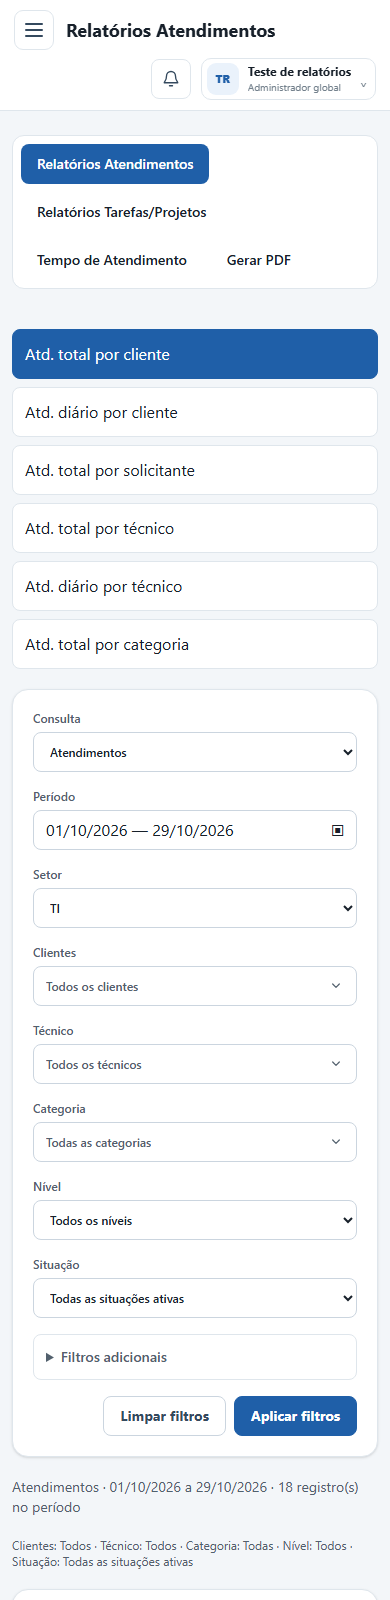
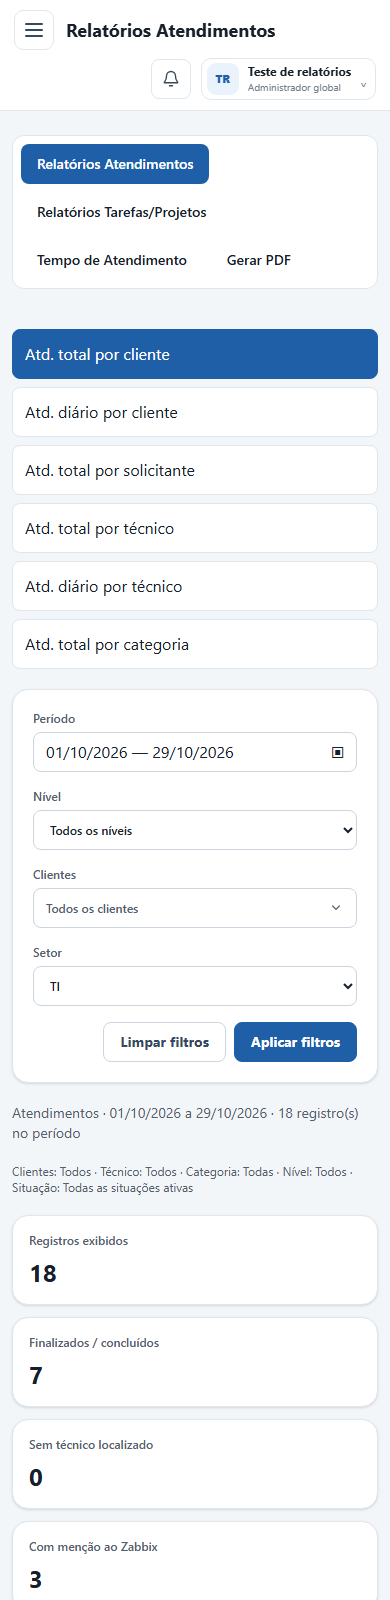
feat(reports): tailor attendance filters to each report

diff --git a/apps/web/src/modules/reports/components/report-center-screen.tsx b/apps/web/src/modules/reports/components/report-center-screen.tsx
@@ -37,6 +37,27 @@ const ATTENDANCE_VIEWS: Array<{ value: ReportGrouping; label: string }> = [
   { value: 'category', label: 'Atd. total por categoria' },
 ];
 
+type FilterField = 'period' | 'level' | 'client' | 'sector' | 'technician' | 'category' | 'status';
+const ATTENDANCE_FILTERS: Partial<Record<ReportGrouping, readonly FilterField[]>> = {
+  client: ['period', 'level', 'client', 'sector'],
+  'client-daily': ['period', 'client'],
+  requester: ['period', 'client', 'level', 'status'],
+  technician: ['period', 'sector', 'technician', 'level'],
+  'technician-daily': ['period', 'sector', 'technician', 'level'],
+  category: ['period', 'client', 'category', 'sector', 'technician', 'level'],
+};
+function attendanceFilters(values: Filters, view: ReportGrouping): Filters {
+  const fields = ATTENDANCE_FILTERS[view] ?? ATTENDANCE_FILTERS.client!;
+  return { ...values, source: 'tickets', locationId: '0', categorySector: '0', projectId: '0',
+    clientIds: fields.includes('client') ? values.clientIds : [],
+    sector: fields.includes('sector') ? values.sector : 'all',
+    technicianId: fields.includes('technician') ? values.technicianId : '0',
+    categoryId: fields.includes('category') ? values.categoryId : '0',
+    level: fields.includes('level') ? values.level : '0',
+    status: fields.includes('status') ? values.status : '0',
+  };
+}
+
 function initialFilters(projects: boolean): Filters {
   return { startDate: '', endDate: '', source: projects ? 'tasks' : 'tickets', sector: 'all', clientIds: [], technicianId: '0', categoryId: '0', locationId: '0', categorySector: '0', projectId: '0', level: '0', status: '0' };
 }
@@ -64,6 +85,7 @@ export function ReportCenterScreen({ currentUser, area }: { currentUser: Current
   const [page, setPage] = useState(1);
   const [groupPage, setGroupPage] = useState(1);
   const request = useRef<AbortController | null>(null);
+  const appliedFilters = useRef<Filters | null>(null);
   const printedDetails = useRef(new Map<HTMLDetailsElement, boolean>());
   const catalogClient = filters.clientIds.length === 1 ? filters.clientIds[0] ?? '0' : '0';
   const canPdf = currentUser.grants.some(grant => grant.permission === 'system.admin' || grant.permission === 'reports.pdf');
@@ -92,7 +114,7 @@ export function ReportCenterScreen({ currentUser, area }: { currentUser: Current
     setLoading(true); setError('');
     try {
       const response = await apiRequest<TicketAnalyticsResponse>(`reports/tickets/analytics?${queryFor(values)}`, { signal: controller.signal });
-      if (!controller.signal.aborted) { setReport(response); setPage(1); setGroupPage(1); }
+      if (!controller.signal.aborted) { appliedFilters.current = values; setReport(response); setPage(1); setGroupPage(1); }
     } catch (reason) {
       if (!controller.signal.aborted) { setReport(null); setError(reportError(reason)); }
     } finally { if (!controller.signal.aborted) setLoading(false); }
@@ -138,6 +160,17 @@ export function ReportCenterScreen({ currentUser, area }: { currentUser: Current
   const activePage = Math.min(page, pages), activeGroupPage = Math.min(groupPage, groupPages);
   const mentions = rows.filter(row => `${row.openingDescription} ${row.closingDescription}`.toLowerCase().includes('zabbix')).length;
 
+  function changeGrouping(view: ReportGrouping) {
+    setGrouping(view); setGroupPage(1);
+    if (projects) return;
+    setFilters(current => attendanceFilters(current, view));
+    const applied = appliedFilters.current;
+    if (applied) {
+      const next = attendanceFilters(applied, view);
+      if (queryFor(next) !== queryFor(applied)) { setSearch(''); setZabbix('all'); void load(next); }
+    }
+  }
+
   function apply(event: FormEvent) { event.preventDefault(); setSearch(''); setZabbix('all'); void load(filters); }
   function exportRows() {
     downloadCsv(`registros-${area}.csv`, [['Origem', 'ID', 'Título', 'Projeto', 'Cliente', 'Local', 'Solicitante', 'Técnico', 'Função', 'Categoria', 'Subcategoria', 'Item', 'Tipo', 'Nível', 'Forma', 'Situação', 'Abertura', 'Fechamento', 'Descrição abertura', 'Descrição fechamento', 'Tempo decorrido'],
@@ -152,15 +185,26 @@ export function ReportCenterScreen({ currentUser, area }: { currentUser: Current
     } catch (reason) { setError(reportError(reason)); } finally { setExporting(false); }
   }
 
+  const attendanceControls = {
+    period: (<div className="min-w-0"><span className="mb-1.5 block text-xs font-semibold text-app-muted">Período</span><DateRangePicker startDate={filters.startDate} endDate={filters.endDate} disabled={loading} onChange={range => setFilters(current => ({ ...current, ...range }))} /></div>),
+    sector: (<ReportSectorFilter value={filters.sector} disabled={loading} onChange={sector => setFilters(current => ({ ...current, sector, technicianId: '0' }))} />),
+    client: (<label className="grid min-w-0 gap-1.5 text-xs font-semibold text-app-muted">Clientes<SearchSelect disabled={loading} multiple multipleLabel="clientes" options={catalog.clients.map(row => ({ value: String(row.id), label: row.name }))} value={filters.clientIds} onChange={clientIds => setFilters(current => ({ ...current, clientIds, locationId: '0', projectId: '0' }))} placeholder="Todos os clientes" /></label>),
+    technician: (<label className="grid min-w-0 gap-1.5 text-xs font-semibold text-app-muted">Técnico<SearchSelect disabled={loading} options={sectorTechnicians(catalog, filters.sector).map(row => ({ value: String(row.id), label: row.name }))} value={filters.technicianId === '0' ? [] : [filters.technicianId]} onChange={value => setFilters(current => ({ ...current, technicianId: value[0] ?? '0' }))} placeholder="Todos os técnicos" /></label>),
+    category: (<label className="grid min-w-0 gap-1.5 text-xs font-semibold text-app-muted">Categoria<SearchSelect disabled={loading} options={catalog.categories.map(row => ({ value: String(row.id), label: row.name }))} value={filters.categoryId === '0' ? [] : [filters.categoryId]} onChange={value => setFilters(current => ({ ...current, categoryId: value[0] ?? '0' }))} placeholder="Todas as categorias" /></label>),
+    level: (<label className="grid min-w-0 gap-1.5 text-xs font-semibold text-app-muted">Nível<select aria-label="Nível" className={INPUT} disabled={loading} value={filters.level} onChange={event => setFilters(current => ({ ...current, level: event.target.value }))}><option value="0">Todos os níveis</option>{[1, 2, 3, 4, 5].map(value => <option key={value} value={value}>{value}</option>)}</select></label>),
+    status: (<label className="grid min-w-0 gap-1.5 text-xs font-semibold text-app-muted">Situação<select aria-label="Situação" className={INPUT} disabled={loading} value={filters.status} onChange={event => setFilters(current => ({ ...current, status: event.target.value }))}><option value="0">Todas as situações ativas</option>{Object.entries(STATUS).filter(([value]) => value !== '0').map(([value, label]) => <option key={value} value={value}>{label}</option>)}</select></label>),
+  };
+
   return <main className="min-h-screen bg-app-bg text-app-text print:bg-white [print-color-adjust:exact] max-sm:[&>header]:flex-wrap max-sm:[&>header]:gap-2 max-sm:[&>header>div:last-child]:w-full" data-report-center={area}>
     <AppPageHeader title={projects ? 'Relatórios Tarefas/Projetos' : 'Relatórios Atendimentos'} subtitle="Filtros, gráficos, resumos e registros detalhados em uma única página." user={currentUser} />
     <div className="mx-auto grid w-full max-w-[1600px] gap-5 px-5 py-6 max-sm:px-3 print:max-w-none print:p-0">
       <ReportSections active={area} user={currentUser} />
       {!projects ? <div className="grid gap-2 sm:grid-cols-2 lg:grid-cols-3 print:hidden" role="group" aria-label="Relatórios de atendimentos">
-        {ATTENDANCE_VIEWS.map(view => <button type="button" key={view.value} aria-pressed={grouping === view.value} onClick={() => { setGrouping(view.value); setGroupPage(1); }} className={`min-h-12 rounded-lg border px-3 py-3 text-left text-sm font-semibold transition-colors focus-visible:outline-2 focus-visible:outline-app-brand ${grouping === view.value ? 'border-app-brand bg-app-brand text-white' : 'border-app-border bg-app-surface hover:bg-app-surface-hover'}`}>{view.label}</button>)}
+        {ATTENDANCE_VIEWS.map(view => <button type="button" key={view.value} aria-pressed={grouping === view.value} disabled={loading} onClick={() => changeGrouping(view.value)} className={`min-h-12 rounded-lg border px-3 py-3 text-left text-sm font-semibold transition-colors focus-visible:outline-2 focus-visible:outline-app-brand ${grouping === view.value ? 'border-app-brand bg-app-brand text-white' : 'border-app-border bg-app-surface hover:bg-app-surface-hover'}`}>{view.label}</button>)}
       </div> : null}
       {error ? <p role="alert" className="m-0 rounded-xl border border-app-danger-border bg-app-danger-soft p-4 text-sm text-app-danger">{error}</p> : null}
       <form onSubmit={apply} className={`${CARD} grid grid-cols-4 items-end gap-4 p-5 max-xl:grid-cols-2 max-sm:grid-cols-1 print:hidden`}>
+        {projects ? <>
         <label className="grid min-w-0 gap-1.5 text-xs font-semibold text-app-muted">Consulta<select aria-label="Consulta" className={INPUT} disabled={loading} value={filters.source} onChange={event => setFilters(current => ({ ...current, source: event.target.value as TicketReportSource, projectId: '0' }))}>
           {(projects ? ['tasks', 'projects'] as const : ['tickets', 'improvements', 'unified'] as const).map(source => <option key={source} value={source}>{SOURCES[source]}</option>)}
         </select></label>
@@ -176,6 +220,7 @@ export function ReportCenterScreen({ currentUser, area }: { currentUser: Current
           <label className="grid min-w-0 gap-1.5 text-xs font-semibold text-app-muted">Local<SearchSelect disabled={loading || filters.clientIds.length !== 1} options={catalog.locations.map(row => ({ value: String(row.id), label: row.name }))} value={filters.locationId === '0' ? [] : [filters.locationId]} onChange={value => setFilters(current => ({ ...current, locationId: value[0] ?? '0' }))} placeholder="Todos os locais" /><span>Selecione um cliente para filtrar por local.</span></label>
           <label className="grid min-w-0 gap-1.5 text-xs font-semibold text-app-muted">Área da categoria<select aria-label="Área da categoria" className={INPUT} disabled={loading} value={filters.categorySector} onChange={event => setFilters(current => ({ ...current, categorySector: event.target.value }))}><option value="0">Todas as áreas</option><option value="1">TI</option><option value="3">DevOps / Administrativo</option><option value="2">Marketing</option></select></label>
         </div></details>
+        </> : (ATTENDANCE_FILTERS[grouping] ?? ATTENDANCE_FILTERS.client!).map(field => <div key={field} className="min-w-0" data-report-filter={field}>{attendanceControls[field]}</div>)}
         <div className="col-span-full flex flex-wrap justify-end gap-2"><button className={SECONDARY} type="button" disabled={loading} onClick={() => { const next = { ...initialFilters(projects), startDate: filters.startDate, endDate: filters.endDate }; setFilters(next); setSearch(''); setZabbix('all'); void load(next); }}>Limpar filtros</button><button type="submit" className={appButtonClass('primary')} disabled={loading}>{loading ? 'Carregando…' : 'Aplicar filtros'}</button></div>
       </form>
       {report ? <>
@@ -186,7 +231,7 @@ export function ReportCenterScreen({ currentUser, area }: { currentUser: Current
         ] as const).map(([label, count]) => <div className={`${CARD} p-4`} key={label}><p className="mb-2 mt-0 text-xs font-semibold text-app-muted">{label}</p><strong className="text-2xl">{count.toLocaleString('pt-BR')}</strong></div>)}</div>
         <section className={`${CARD} p-5`} aria-label="Explorar resultados">
           <div className="mb-4 grid grid-cols-[minmax(0,1fr)_minmax(180px,280px)] gap-3 max-sm:grid-cols-1 print:hidden"><input className={INPUT} aria-label="Buscar nos resultados" placeholder="Buscar nome, projeto, função ou descrição…" value={search} onChange={event => { setSearch(event.target.value); setPage(1); setGroupPage(1); }} type="search" /><select aria-label="Menção ao Zabbix" className={INPUT} value={zabbix} onChange={event => { setZabbix(event.target.value); setPage(1); setGroupPage(1); }}><option value="all">Todas as menções</option><option value="yes">Com menção ao Zabbix</option><option value="no">Sem menção ao Zabbix</option></select></div>
-          <div className="flex flex-wrap items-end justify-between gap-3 print:hidden"><label className="grid gap-1.5 text-xs font-semibold text-app-muted">Visualização<select aria-label="Visualização" className={INPUT} value={grouping} onChange={event => { setGrouping(event.target.value as ReportGrouping); setGroupPage(1); }}>{GROUPS.filter(group => projects || group.value !== 'project').map(group => <option key={group.value} value={group.value}>{group.label}</option>)}</select></label><ReportChartTypePicker value={chartType} onChange={setChartType} /><div className="flex flex-wrap gap-2"><button className={SECONDARY} disabled={!rows.length} onClick={exportRows} type="button">Exportar registros</button><button className={SECONDARY} onClick={() => window.print()} type="button">Imprimir / PDF</button>{canPdf ? <button className={SECONDARY} disabled={exporting || Boolean(search.trim()) || zabbix !== 'all'} onClick={() => void exportPdf()} type="button" title="PDF do período e dos filtros aplicados. Limpe a busca e o filtro de menção para baixar.">{exporting ? 'Preparando…' : 'Baixar PDF analítico'}</button> : null}</div></div>
+          <div className="flex flex-wrap items-end justify-between gap-3 print:hidden"><label className="grid gap-1.5 text-xs font-semibold text-app-muted">Visualização<select aria-label="Visualização" className={INPUT} value={grouping} disabled={loading} onChange={event => changeGrouping(event.target.value as ReportGrouping)}>{(projects ? GROUPS : ATTENDANCE_VIEWS).map(group => <option key={group.value} value={group.value}>{group.label}</option>)}</select></label><ReportChartTypePicker value={chartType} onChange={setChartType} /><div className="flex flex-wrap gap-2"><button className={SECONDARY} disabled={!rows.length} onClick={exportRows} type="button">Exportar registros</button><button className={SECONDARY} onClick={() => window.print()} type="button">Imprimir / PDF</button>{canPdf ? <button className={SECONDARY} disabled={exporting || Boolean(search.trim()) || zabbix !== 'all'} onClick={() => void exportPdf()} type="button" title="PDF do período e dos filtros aplicados. Limpe a busca e o filtro de menção para baixar.">{exporting ? 'Preparando…' : 'Baixar PDF analítico'}</button> : null}</div></div>
           <h2 className="mb-1 mt-5 text-lg font-bold">{groupLabel(grouping)}</h2>
           {groups.length > 20 ? <p className="text-xs text-app-muted">O gráfico reúne os 20 maiores grupos e os demais. O resumo e a exportação incluem todos os grupos.</p> : null}
           <ReportChartView key={`${report.filters.source}:${grouping}`} rows={chartRows} type={chartType} />

diff --git a/docs/reports/report-center.md b/docs/reports/report-center.md
@@ -9,11 +9,22 @@ A navegação de Relatórios contém quatro entradas:
 | Tempo de Atendimento (aceite e conclusão) | `/relatorios/atendimentos/tempo-aceite-conclusao` |
 | Gerar PDF | `/relatorios/arquivos` |
 
-As duas primeiras centrais compartilham filtros por período, cliente, setor, técnico, categoria e situação, além de local e área da categoria nos filtros adicionais. Atendimentos oferece também nível; Tarefas/Projetos permite selecionar o projeto e alternar entre tarefas e projetos. As consultas usam a API de relatórios existente, respeitando o escopo de clientes e o limite de 20 mil registros, sem resultados parciais silenciosos.
+Atendimentos apresenta apenas os filtros correspondentes à visualização selecionada, nesta ordem:
 
-Na mesma página, o usuário alterna entre cliente, técnico, categoria, solicitante, diário por cliente, diário por técnico e situação. Em Tarefas/Projetos existe também agrupamento por projeto. A troca de visualização é local: utiliza os mesmos registros e mantém filtros, totais e busca. Cada registro conta uma vez por agrupamento. Níveis fora de 1, 2 e 3 são apresentados em Outros níveis. Gráficos com muitos grupos reúnem os 20 maiores e os demais; resumo e CSV preservam todos os grupos.
+| Relatório | Filtros |
+| --- | --- |
+| Total por cliente | Período, nível, cliente, setor |
+| Diário por cliente | Período, cliente |
+| Por solicitante | Período, cliente, nível, situação |
+| Total por técnico | Período, setor, técnico, nível |
+| Diário por técnico | Período, setor, técnico, nível |
+| Por categoria | Período, cliente, categoria, setor, técnico, nível |
 
-Em Atendimentos há seis botões antes dos filtros: Atd. total por cliente, Atd. diário por cliente, Atd. total por solicitante, Atd. total por técnico, Atd. diário por técnico e Atd. total por categoria. O título, gráfico e resumo acompanham a opção escolhida sem recarregar os registros. Administradores globais entram em DevOps; a função antiga Técnico continua distinta de Tecnico TI.
+Ao trocar de relatório, os filtros comuns são preservados. Campos que deixam de existir voltam ao padrão, tanto no formulário quanto na consulta aplicada; se necessário, os resultados são carregados novamente. Alterações ainda não aplicadas nos campos comuns continuam pendentes até clicar em Aplicar filtros. Atendimentos consulta chamados; Tarefas/Projetos mantém a seleção entre tarefas e projetos e seus filtros completos, incluindo local e área da categoria. As consultas respeitam o escopo de clientes e o limite de 20 mil registros, sem resultados parciais silenciosos.
+
+Na mesma página, o usuário alterna entre os seis relatórios de atendimentos. Tarefas/Projetos oferece também agrupamentos por projeto e situação. A troca utiliza os mesmos registros quando não há filtros incompatíveis aplicados. Cada registro conta uma vez por agrupamento. Níveis fora de 1, 2 e 3 são apresentados em Outros níveis. Gráficos com muitos grupos reúnem os 20 maiores e os demais; resumo e CSV preservam todos os grupos.
+
+Em Atendimentos há seis botões antes dos filtros: Atd. total por cliente, Atd. diário por cliente, Atd. total por solicitante, Atd. total por técnico, Atd. diário por técnico e Atd. total por categoria. O título, gráfico e resumo acompanham a opção escolhida. Administradores globais entram em DevOps; a função antiga Técnico continua distinta de Tecnico TI.
 
 Os registros detalhados incluem títulos, projetos, cliente, local, técnico e função, solicitante, classificação, datas, situação, descrições e tempo decorrido. As tabelas usam páginas de 50 registros para navegação. CSV inclui todo o resultado filtrado; imprimir renderiza todas as páginas e abre as descrições temporariamente, restaurando a visualização depois. O PDF analítico usa os filtros aplicados no servidor. Seu botão fica desabilitado com busca textual ou filtro de menção ativos, para evitar gerar um PDF diferente da seleção local; nesse caso continuam disponíveis CSV e impressão do resultado exibido.
 
@@ -38,3 +49,5 @@ Capturas com dados simulados: [desktop](report-center-desktop.png) e [celular](r
 Validação concluída em 28/10/2026: build completo aprovado, 34 testes de navegação, agrupamento, SQL Server, escopo, projetos e relatórios aprovados. Os testes de navegador da central e do arquivo de PDFs passaram, incluindo impressão de todas as páginas/descrições e permissões. A conferência somente leitura no banco real executou consultas de atendimentos, tarefas e projetos e carregou 44 projetos no catálogo do usuário interno de conferência. Nenhum registro real foi modificado e nenhum PDF real foi gerado pelos testes.
 
 Em 29/10/2026, os seis botões de Atendimentos foram posicionados acima dos filtros. O bloco de diagnóstico de setores, a lista de técnicos reconhecidos e a explicação sobre Zabbix foram removidos da área de resultados. O teste de navegador verifica a posição dos botões no computador e no celular, a ausência do bloco removido e a preservação dos totais sem novas consultas.
+
+A validação dos filtros por relatório verifica os campos e sua ordem nas seis opções, a limpeza de setor e nível ao abrir Diário por cliente e a atualização dos resultados sem restrições ocultas. Build e teste de navegador aprovados.
